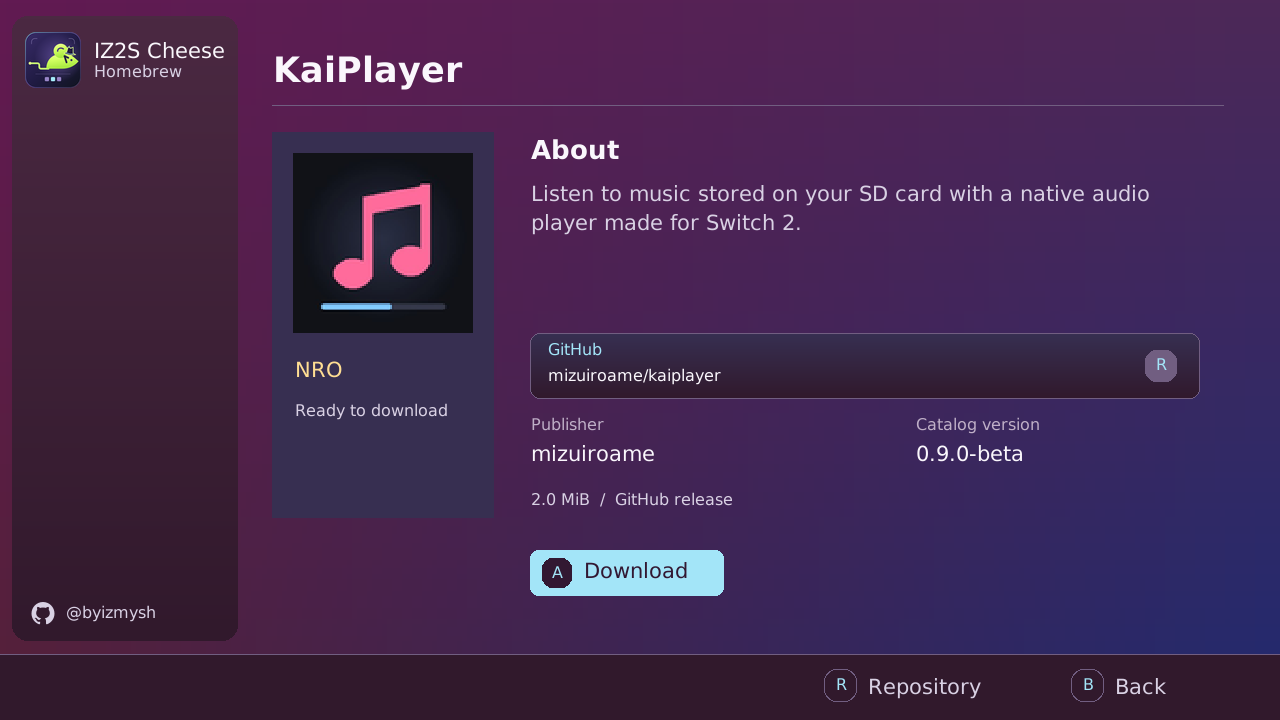
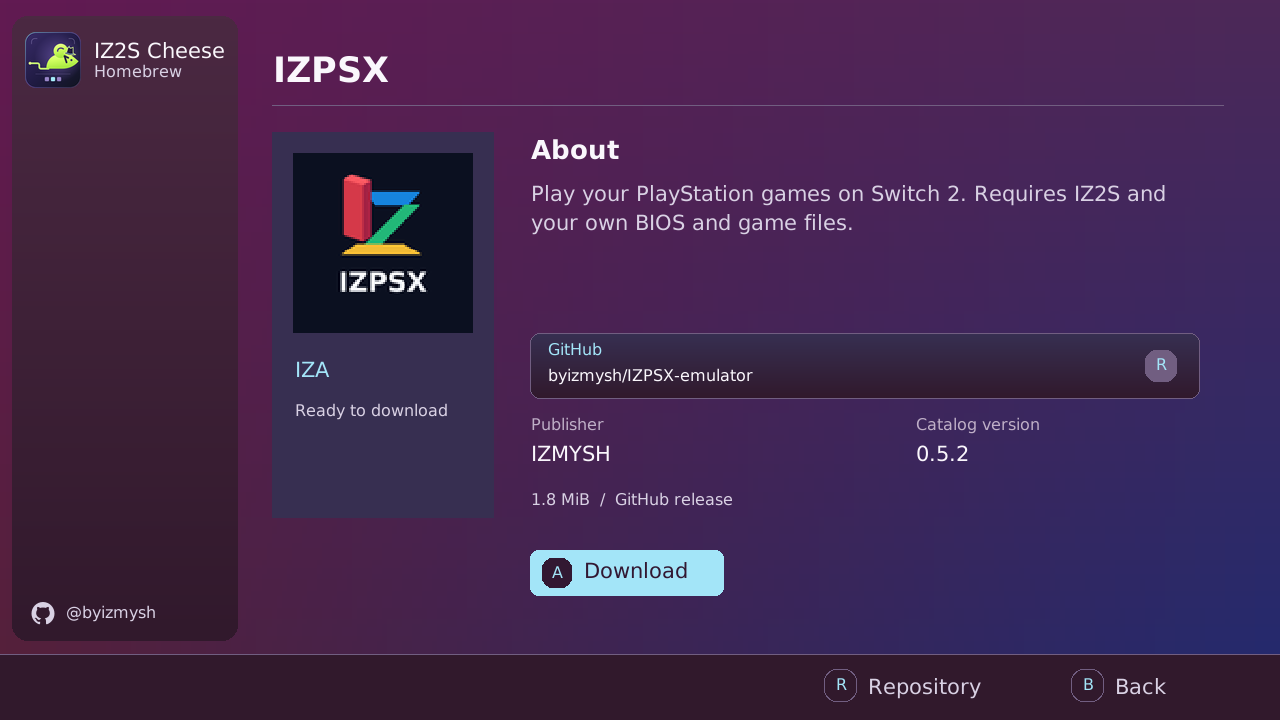
Refresh README screenshots with IZPSX

diff --git a/README.md b/README.md
@@ -3,8 +3,8 @@
 A free homebrew hub for Nintendo Switch 2.
 
 <p>
-  <a href="screenshots/catalog.png"><img src="screenshots/catalog.png" width="49%" alt="IZ2S Cheese catalog with app tiles and categories"></a>
-  <a href="screenshots/app-details.png"><img src="screenshots/app-details.png" width="49%" alt="App details with the download button and publisher link"></a>
+  <a href="screenshots/catalog.png"><img src="screenshots/catalog.png" width="49%" alt="IZ2S Cheese catalog showing IZA and NRO apps"></a>
+  <a href="screenshots/app-details.png"><img src="screenshots/app-details.png" width="49%" alt="IZPSX details in IZ2S Cheese"></a>
 </p>
 
 ## Choose your build
